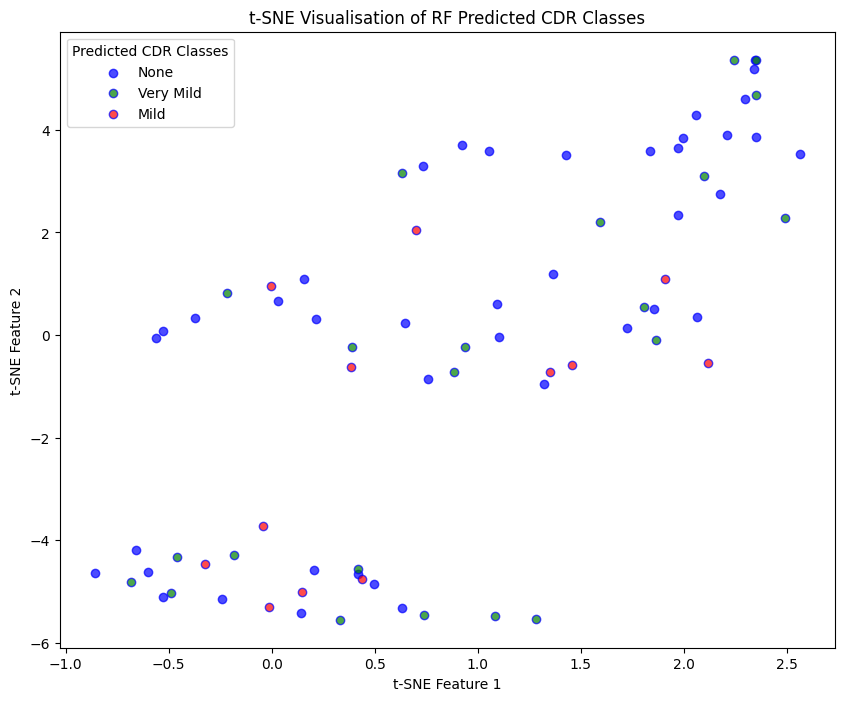
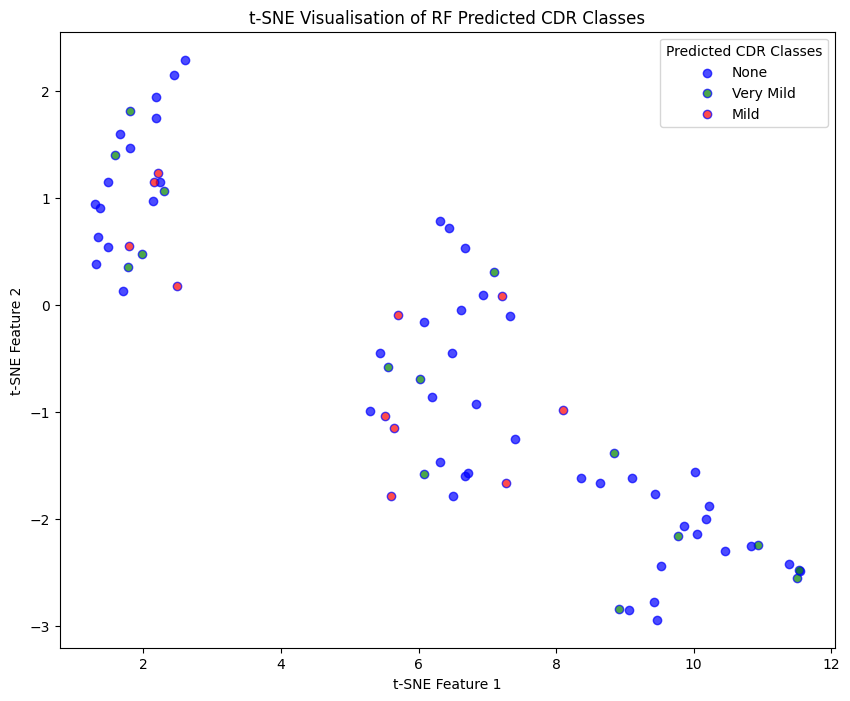
Fix issue relating to the use of features selected

diff --git a/scripts/Predictive_Attributes.py b/scripts/Predictive_Attributes.py
@@ -2,8 +2,8 @@
 # In[132]:
 
 from data_setup import *
-from Model1 import final_rf
-from Model2 import final_svm
+from Model1 import final_rf, selected_features
+from Model2 import final_svm, svm_selected_features
 
 import shap
 import matplotlib
@@ -11,7 +11,7 @@ matplotlib.use('TkAgg')
 import matplotlib.pyplot as plt
 
 
-# Use the dataframe after model_comparison.py has ran
+# Use the pre-processed dataframe
 df = pd.read_csv('data/df_after_pre-processing.csv')
 
 
@@ -23,22 +23,24 @@ svm_feature_importances = final_svm.coef_[0]
 # In[133]:
 
 
-# Obtain feature names
-features = X_train.columns
+# Obtain Random Forest feature names
+rf_features = X_train[selected_features].columns
 
 # Visualise RandomForest feature importances
 plt.figure(figsize=(10, 8))
-plt.bar(features, rf_feature_importances)
+plt.bar(rf_features, rf_feature_importances)
 plt.xticks(rotation=45)
 plt.title("RandomForest Feature Importances")
 
 # Save figure
 plt.savefig('results/Predictive_Attributes/RF_Feature_Importance.png', bbox_inches='tight')
 
+# Obtain Support Vector Machine feature names
+svm_features = X_train[svm_selected_features].columns
 
 # Visualise SVM feature importances
 plt.figure(figsize=(10, 8))
-plt.bar(features, svm_feature_importances)
+plt.bar(svm_features, svm_feature_importances)
 plt.xticks(rotation=45)
 plt.title("SVM Feature Importances")
 
@@ -52,13 +54,13 @@ plt.savefig('results/Predictive_Attributes/SVM_Feature_Importance.png', bbox_inc
 
 # Create SHAP explainer
 rf_explainer = shap.TreeExplainer(final_rf)
-rf_shap_values = rf_explainer.shap_values(X_train)
+rf_shap_values = rf_explainer.shap_values(X_train[selected_features])
 
 # Matplotlib Config to enable saving of SHAP Summary Plot
 plt.ioff()
 matplotlib.use('Agg')
 
-shap.summary_plot(rf_shap_values, X_train, plot_type="bar")
+shap.summary_plot(rf_shap_values, X_train[selected_features], plot_type="bar")
 
 plt.savefig('results/Predictive_Attributes/RF_shap_summary_plot.png', bbox_inches='tight')
 

diff --git a/scripts/Model1.py b/scripts/Model1.py
@@ -12,7 +12,7 @@ import matplotlib.pyplot as plt
 # Initialise Model and Perform Feature Selection
 # In[105]:
 
-# Use the dataframe after Exploratory_Analysis.py has ran
+# Use the pre-processed dataframe
 df = pd.read_csv('data/df_after_pre-processing.csv')
 
 # Initialise RandomForestClassifier
@@ -110,7 +110,7 @@ best_fold_index = rf_f1_scores.index(max(rf_f1_scores))
 best_hyperparameters = rf_best_params_list[best_fold_index]
 
 # Removing the 'classifier__' prefix
-best_hyperparameters = {k.replace('classifier__', ''): v for k, v in best_hyperparameters.items()}
+best_hyperparameters = {j.replace('classifier__', ''): i for j, i in best_hyperparameters.items()}
 
 # Train Final Model Using Best Hyperparameters Found
 # In[111]:
@@ -118,10 +118,10 @@ best_hyperparameters = {k.replace('classifier__', ''): v for k, v in best_hyperp
 
 # Train the final model using the best hyperparameters
 final_rf = RandomForestClassifier(**best_hyperparameters, random_state=42, class_weight='balanced')
-final_rf.fit(X_train, y_train)
+final_rf.fit(X_train[selected_features], y_train)
 
 # Predict on test set using final model
-y_pred = final_rf.predict(X_test)
+y_pred = final_rf.predict(X_test[selected_features])
 
 # Perform Dimensionality Reduction and Visualise Clustering
 # In[112]:
@@ -129,7 +129,7 @@ y_pred = final_rf.predict(X_test)
 
 # Perform t-SNE for dimensionality reduction to 2 components for visualisation
 tsne = TSNE(n_components=2, random_state=42)
-X_test_tsne = tsne.fit_transform(X_test)
+X_test_tsne = tsne.fit_transform(X_test[selected_features])
 
 # Define color map for classes
 colors = ['blue', 'green', 'red']

diff --git a/scripts/Model2.py b/scripts/Model2.py
@@ -11,7 +11,7 @@ import matplotlib.pyplot as plt
 # In[115]:
 
 
-# Use the dataframe after Exploratory_Analysis.py has ran
+# Use the pre-processed dataframe
 df = pd.read_csv('data/df_after_pre-processing.csv')
 
 
@@ -109,7 +109,7 @@ svm_best_fold_index = svm_f1_scores.index(max(svm_f1_scores))
 svm_best_hyperparameters = svm_best_params_list[svm_best_fold_index]
 
 # Removing the 'classifier__' prefix
-svm_best_hyperparameters = {k.replace('classifier__', ''): v for k, v in svm_best_hyperparameters.items()}
+svm_best_hyperparameters = {j.replace('classifier__', ''): i for j, i in svm_best_hyperparameters.items()}
 
 # Train Final Model Using Best Hyperparameters Found
 # In[121]:
@@ -117,10 +117,10 @@ svm_best_hyperparameters = {k.replace('classifier__', ''): v for k, v in svm_bes
 
 # Train final model using best hyperparameters
 final_svm = SVC(**svm_best_hyperparameters, random_state=42, class_weight='balanced')
-final_svm.fit(X_train, y_train)
+final_svm.fit(X_train[svm_selected_features], y_train)
 
 # Evaluate final model on test set
-svm_y_pred = final_svm.predict(X_test)
+svm_y_pred = final_svm.predict(X_test[svm_selected_features])
 
 # Perform Dimensionality Reduction and Visualise Clustering
 # In[122]:
@@ -128,7 +128,7 @@ svm_y_pred = final_svm.predict(X_test)
 
 # Perform t-SNE for dimensionality reduction to 2 components for visualisation
 tsne = TSNE(n_components=2, random_state=42)
-svm_X_test_tsne = tsne.fit_transform(X_test)
+svm_X_test_tsne = tsne.fit_transform(X_test[svm_selected_features])
 
 # Define color map for classes
 colors = ['blue', 'green', 'red']

diff --git a/scripts/data_setup.py b/scripts/data_setup.py
@@ -14,7 +14,7 @@ from sklearn.metrics import accuracy_score, precision_score, recall_score, f1_sc
 from sklearn.cluster import OPTICS
 from sklearn.manifold import TSNE
 
-# Use the dataframe after Exploratory_Analysis.py has ran
+# Use the pre-processed dataframe
 df = pd.read_csv('data/df_after_pre-processing.csv')
 
 # Create X and y variables
@@ -52,5 +52,5 @@ groups_train = groups_train.reset_index(drop=True)
 # Outer CV for model evaluation
 outer_cv = StratifiedGroupKFold(n_splits=10)
 
-# Inner CV for model selection (feature selection and hyperparameter tuning)
+# Inner CV for model selection (hyperparameter tuning)
 inner_cv = StratifiedGroupKFold(n_splits=10)

diff --git a/scripts/Model_Comparison.py b/scripts/Model_Comparison.py
@@ -14,7 +14,7 @@ import matplotlib.pyplot as plt
 import seaborn as sns
 
 
-# Use the dataframe after Model2.py has ran
+# Use the pre-processed dataframe
 df = pd.read_csv('data/df_after_pre-processing.csv')
 
 

diff --git a/scripts/Pre-Processing.py b/scripts/Pre-Processing.py
@@ -219,7 +219,7 @@ print()
 # In[35]:
 
 
-# Update ASF value
+# Update ASF value of singular outlier greater than 2 (ASF value 103)
 df.loc[df['MRI_ID'] == '0185_MR1', 'ASF'] = 1.03
 
 # Verify change
